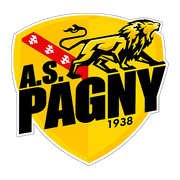
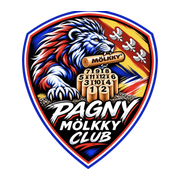
Remplacer les icônes par le blason Pagny Mölkky transparent

diff --git a/index.html b/index.html
@@ -6,9 +6,9 @@
     <title>AS Pagny Mölkky - Gestion Club</title>
     <meta name="theme-color" content="#0f172a">
     <meta name="apple-mobile-web-app-title" content="AS Pagny Mölkky">
-    <link rel="apple-touch-icon" sizes="180x180" href="./apple-touch-icon.png?v=1">
-    <link rel="icon" type="image/png" sizes="32x32" href="./favicon-32.png?v=1">
-    <link rel="manifest" href="./site.webmanifest?v=1">
+    <link rel="apple-touch-icon" sizes="180x180" href="./apple-touch-icon.png?v=2">
+    <link rel="icon" type="image/png" sizes="32x32" href="./favicon-32.png?v=2">
+    <link rel="manifest" href="./site.webmanifest?v=2">
     <style>
         #modal-tournament > div, #modal-team > div, #modal-results > div {
             max-height: calc(100dvh - 32px);

diff --git a/create_icons.py b/create_icons.py
@@ -1,11 +1,9 @@
 from pathlib import Path
-from PIL import Image, ImageDraw
+from PIL import Image, ImageDraw, ImageOps
 
 root = Path(__file__).parent
-source_path = root / "logo.PNG"
-if not source_path.exists():
-    source_path = root / "icons/source-original.png"
-source = Image.open(source_path).convert("RGBA")
+source_path = root / "icons/source-app-crest.png"
+source = ImageOps.exif_transpose(Image.open(source_path)).convert("RGBA")
 alpha = source.getchannel("A")
 bbox = alpha.point(lambda value: 255 if value > 100 else 0).getbbox()
 if not bbox:
@@ -13,10 +11,10 @@ if not bbox:
 crest = source.crop(bbox)
 
 def icon(size, fraction):
-    image = Image.new("RGB", (size, size), "white")
+    image = Image.new("RGBA", (size, size), (0, 0, 0, 0))
     logo = crest.copy()
     logo.thumbnail((round(size*fraction), round(size*fraction)), Image.Resampling.LANCZOS)
-    image.paste(logo, ((size-logo.width)//2, (size-logo.height)//2), logo)
+    image.alpha_composite(logo, ((size-logo.width)//2, (size-logo.height)//2))
     return image
 
 for filename, size, fraction in [
@@ -24,19 +22,16 @@ for filename, size, fraction in [
     ("favicon-32.png",32,0.92),
     ("icon-192.png",192,0.88),
     ("icon-512.png",512,0.88),
-    ("icon-maskable-512.png",512,0.55),
 ]:
     icon(size, fraction).save(root / filename, optimize=True)
 
-# Preview only: iOS-like rounded corners, not part of the app icons.
+# Preview only: neutral backdrop is not part of the transparent app icons.
 preview = Image.new("RGB",(720,420),"#e2e8f0")
 draw = ImageDraw.Draw(preview)
 tile = icon(256,0.88)
-mask = Image.new("L",(256,256),0)
-ImageDraw.Draw(mask).rounded_rectangle((0,0,255,255),radius=57,fill=255)
-preview.paste(tile,(232,56),mask)
+preview.paste(tile,(232,56),tile)
 draw.text((288,336),"AS Pagny",fill="#0f172a",font_size=28)
-out = Path("attached_assets/apercu-icone-as-pagny.png")
+out = Path("attached_assets/apercu-nouvelle-icone-pagny.png")
 out.parent.mkdir(exist_ok=True)
 preview.save(out)
 print("Icônes créées ; source recadrée :",crest.size)

diff --git a/test-icons.py b/test-icons.py
@@ -1,0 +1,32 @@
+from pathlib import Path
+import json
+from PIL import Image
+
+root = Path(__file__).parent
+for name, size in [
+    ("apple-touch-icon.png", 180),
+    ("favicon-32.png", 32),
+    ("icon-192.png", 192),
+    ("icon-512.png", 512),
+]:
+    with Image.open(root / name) as icon:
+        assert icon.size == (size, size), name
+        assert icon.mode == "RGBA", name
+        assert icon.getpixel((0, 0))[3] == 0, name
+        assert icon.getchannel("A").getextrema() == (0, 255), name
+    with Image.open(root / name) as icon:
+        icon.verify()
+
+manifest = json.loads((root / "site.webmanifest").read_text())
+assert manifest["scope"] == manifest["start_url"] == "./"
+assert manifest["id"] == "./"
+for icon in manifest["icons"]:
+    assert icon["src"].endswith("?v=2")
+    assert (root / icon["src"].removeprefix("./").split("?")[0]).exists()
+html = (root / "index.html").read_text()
+assert "apple-touch-icon.png?v=2" in html
+assert "site.webmanifest?v=2" in html
+assert "home-club-visual" not in html
+assert "logo-pagny-header.png" in html
+assert all(icon["purpose"] == "any" for icon in manifest["icons"])
+print("OK : quatre PNG transparents valides, tailles, manifeste versionné et accueil inchangé.")
